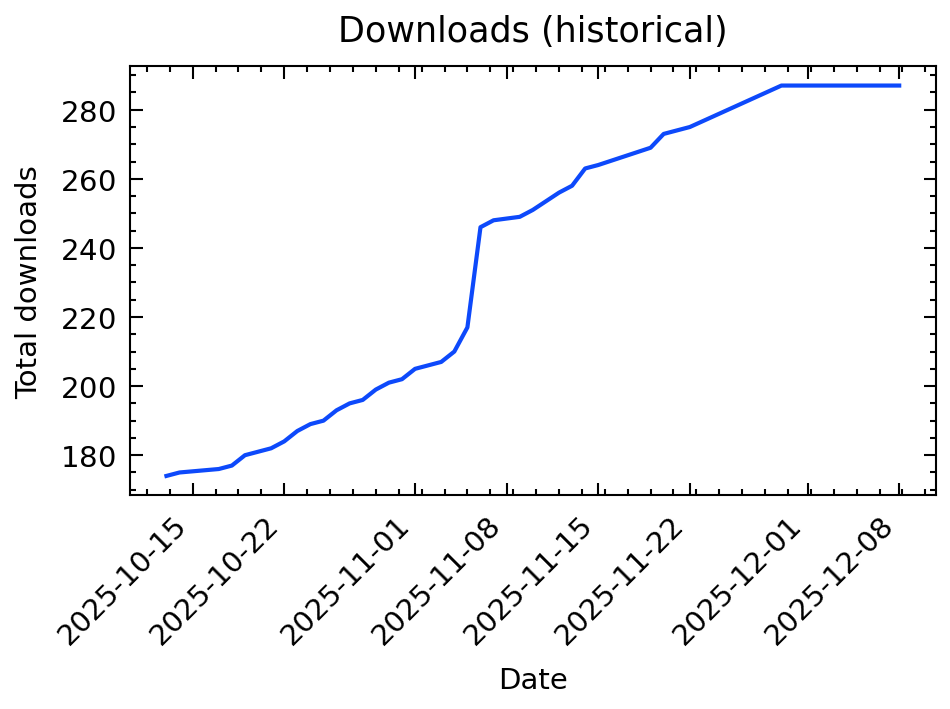
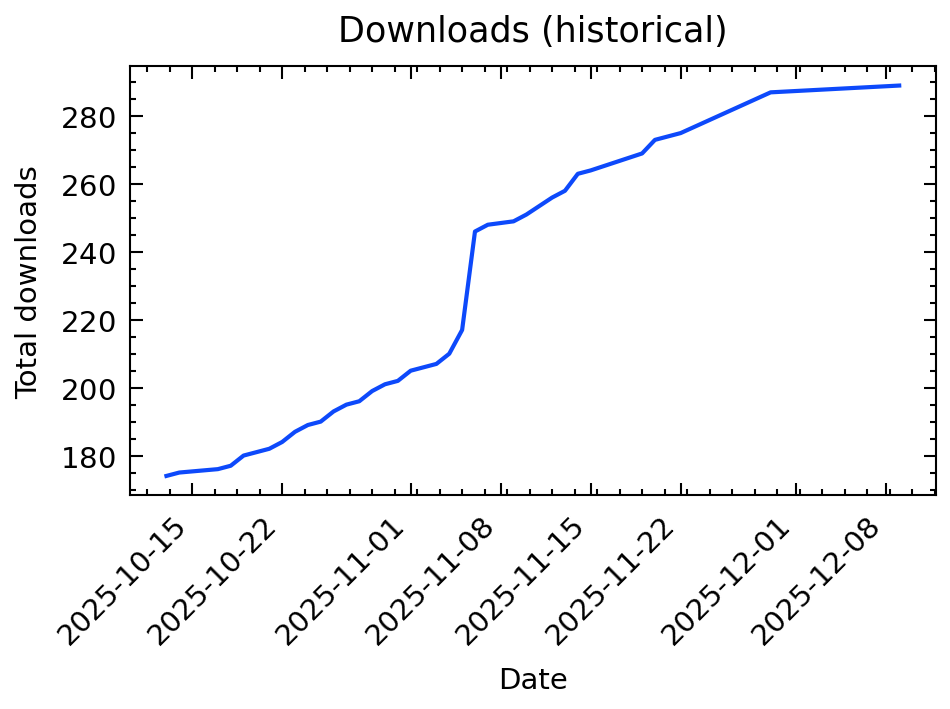
Updated Metrics data

diff --git a/README.md b/README.md
@@ -4,7 +4,7 @@
 SciWIn-Client helps users creating **Computational Workflows** in CWL. Detailed Information about SciWIn-Client can be found in the [GitHub Repository](https://github.com/fairagro/m4.4_sciwin_client). The Metrics shown below have been calculated using the GitHub API. Presentation is done via a CWL Workflow and the scripts in this repository.
 
 ## Downloads by Version
-SciWIn-Client currently has about 287 overall downloads across all versions and operating systems. The lastest version v1.0.0 currently has 81 downloads.
+SciWIn-Client currently has about 289 overall downloads across all versions and operating systems. The lastest version v1.0.0 currently has 83 downloads.
 
 
 ![downloads by version](release.png)
@@ -12,7 +12,7 @@ SciWIn-Client currently has about 287 overall downloads across all versions and 
 
 | Version | Downloads |
 |---------|-----------|
-| v1.0.0 | 81|
+| v1.0.0 | 83|
 | v0.8.0 | 34|
 | v0.7.0 | 21|
 | v0.6.1 | 16|
@@ -27,7 +27,7 @@ SciWIn-Client currently has about 287 overall downloads across all versions and 
 
 
 ## Downloads by Operating System
-SciWIn-Client is used on all major operating systems. There are 159 downloads of the Linux executable, 62 downloads of the Windows executable and 66 downloads of the Mac OS executable.
+SciWIn-Client is used on all major operating systems. There are 159 downloads of the Linux executable, 64 downloads of the Windows executable and 66 downloads of the Mac OS executable.
 
 
 ![downloads by platform](platform.png)
@@ -38,12 +38,12 @@ SciWIn-Client is used on all major operating systems. There are 159 downloads of
 | MacOS (ARM) | 38|
 | Linux (ARM) | 34|
 | MacOS (x64) | 28|
-| Windows (x64) | 62|
+| Windows (x64) | 64|
 | Linux (x64) | 125|
 
 
 ## Historical Download Chart
-The historical download chart can be viewed below. It is shown how the 287 overall downloads progressed over time by using the commited data of this repository.
+The historical download chart can be viewed below. It is shown how the 289 overall downloads progressed over time by using the commited data of this repository.
 
 
 ![downloads by date](history.png)
